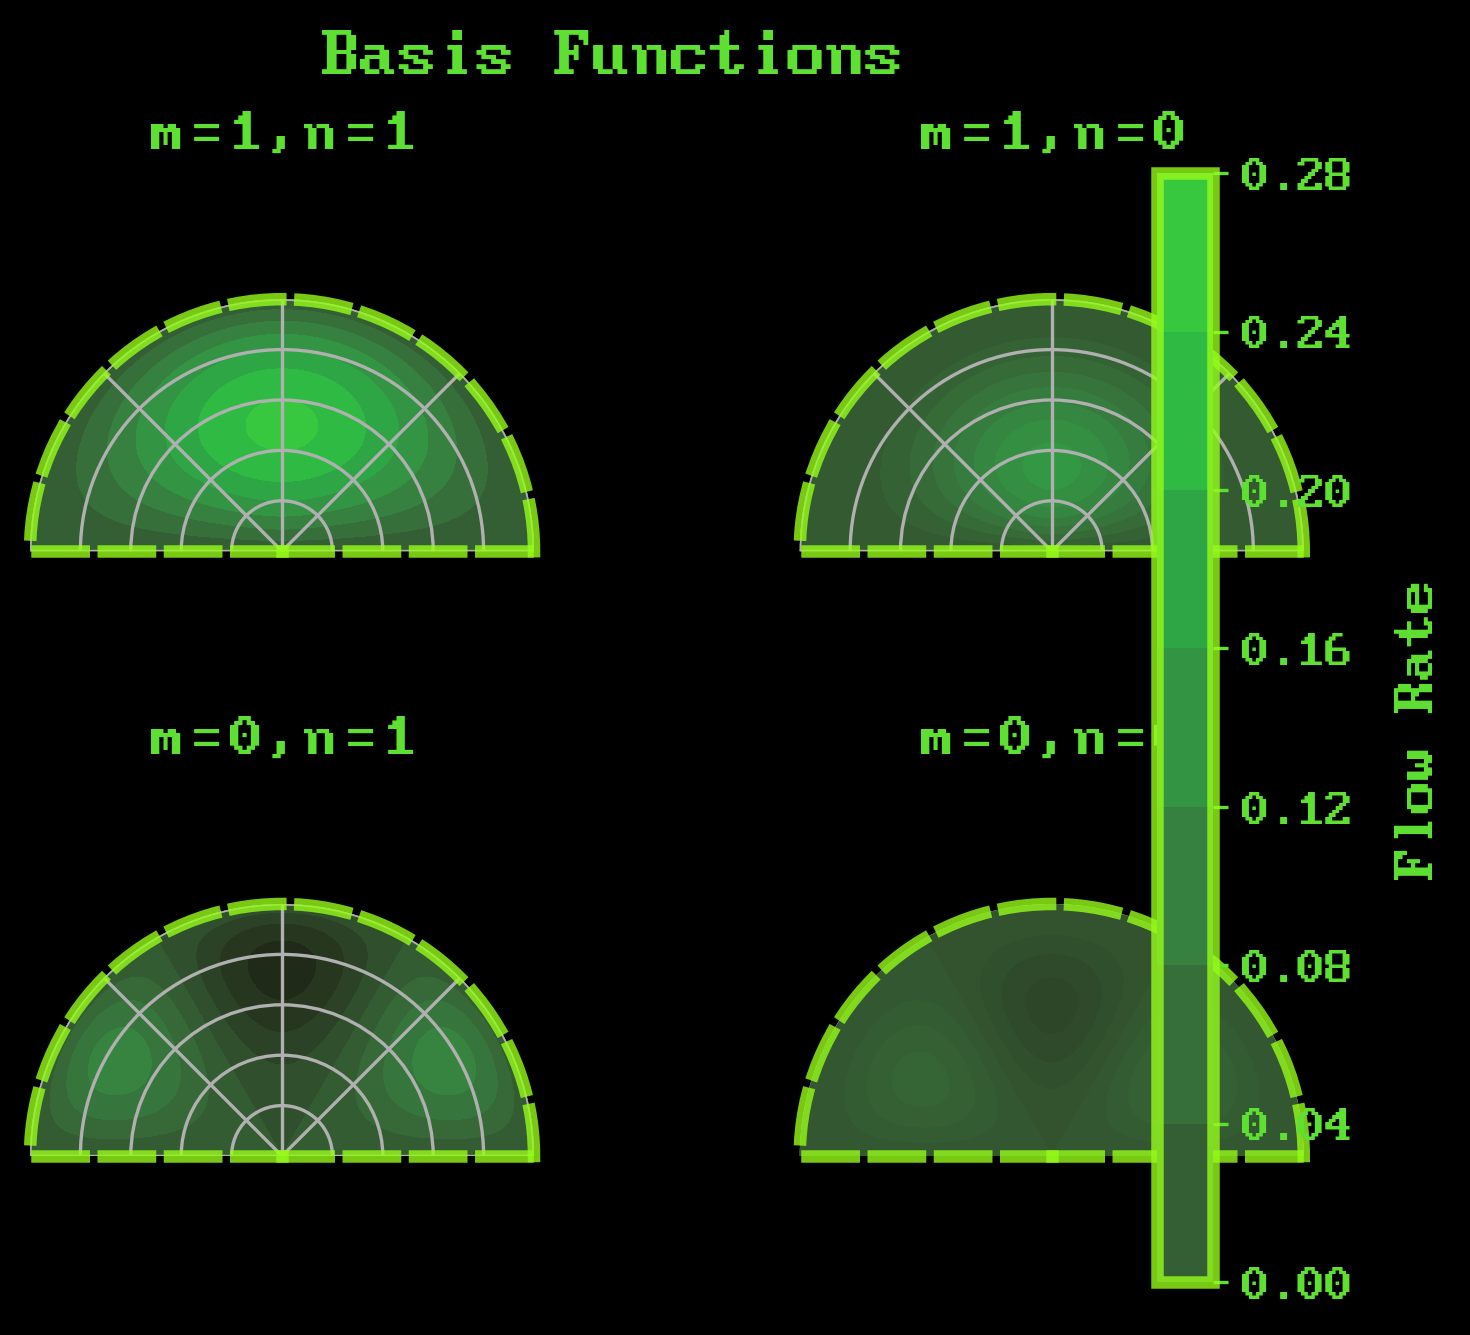
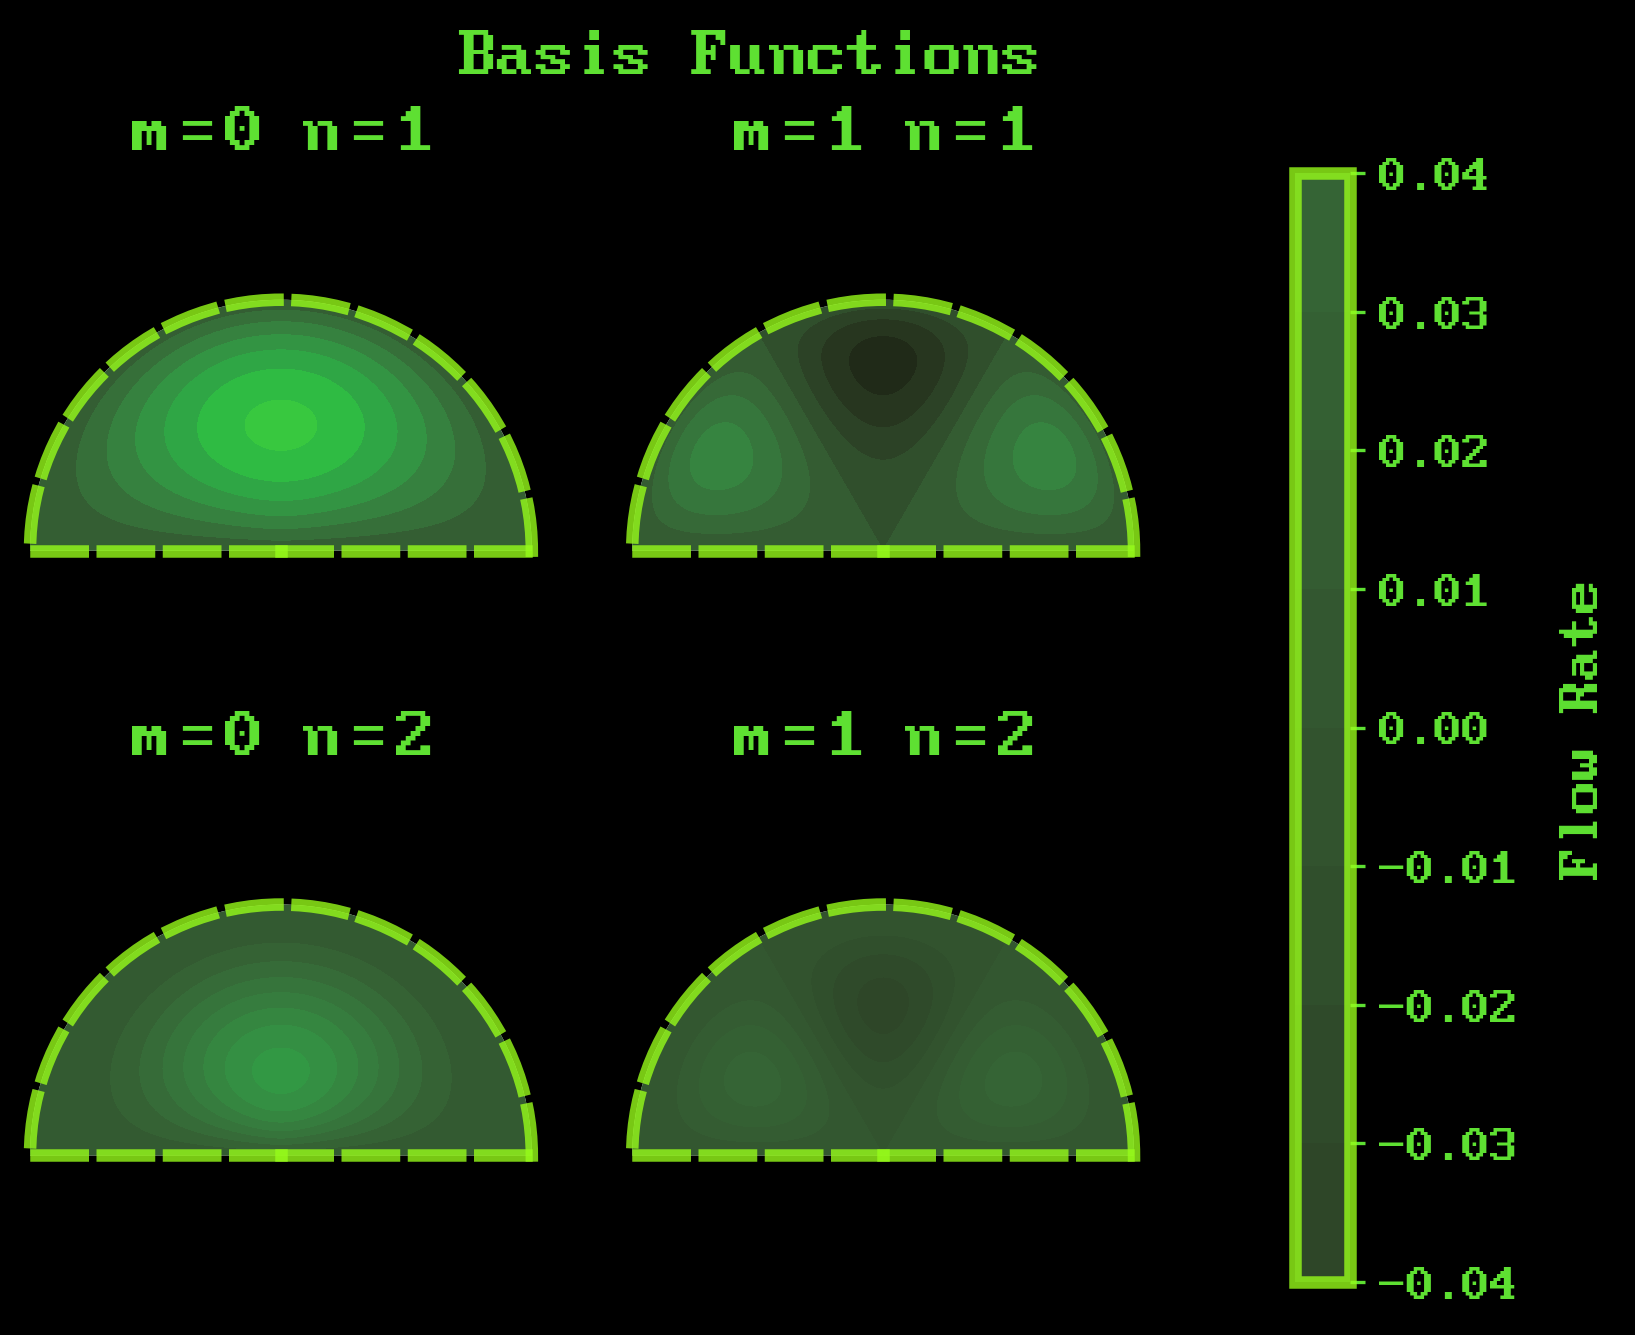
feat: :art: upload basis function images

diff --git a/src.py b/src.py
@@ -177,7 +177,7 @@ class GalerkinObject():
 
         # Spines for cb are called ['left', 'right', 'bottom', 'top', 'outline']
         # Got by calling cb.ax.spines.keys() and iterating over them
-        cb.set_label(r"Flow Rate", color="#5EE032", labelpad=10, size=12)
+        cb.set_label(r"Flow Rate $[\mathrm{arb. units}]$", color="#5EE032", labelpad=10, size=12)
         cb.ax.xaxis.set_tick_params(color="#5EE032")
         cb.ax.yaxis.set_tick_params(color="#5EE032")
         cb.ax.tick_params(axis="x", colors="#5EE032")
@@ -225,23 +225,38 @@ class GalerkinObject():
                 for n in range(1, self.N_dim + 1):
                     Z[m, n - 1] = self.basis_function(self.X, self.PHI, m, n)
         
+        norm = plt.Normalize(vmin=np.min(Z), vmax=np.max(Z))
 
 
         fig, axes = plt.subplots(self.M_dim, self.N_dim, subplot_kw=dict(projection='polar'), facecolor="#000000")
-        
+        cnt = axes[0, 0].contourf(self.PHI, self.X, self.basis_function(self.X, self.PHI, 0, 1), cmap=self.cmap, norm=norm)
+        cnt = axes[0, 1].contourf(self.PHI, self.X, self.basis_function(self.X, self.PHI, 1, 1), cmap=self.cmap, norm=norm)
+        #cnt = axes[0, 2].contourf(self.PHI, self.X, self.basis_function(self.X, self.PHI, 2, 1), cmap=self.cmap, norm=norm)
+        cnt = axes[1, 0].contourf(self.PHI, self.X, self.basis_function(self.X, self.PHI, 0, 2), cmap=self.cmap, norm=norm)
+        cnt = axes[1, 1].contourf(self.PHI, self.X, self.basis_function(self.X, self.PHI, 1, 2), cmap=self.cmap, norm=norm)
+        #cnt = axes[1, 2].contourf(self.PHI, self.X, self.basis_function(self.X, self.PHI, 2, 2), cmap=self.cmap, norm=norm)
+        #cnt = axes[2, 0].contourf(self.PHI, self.X, self.basis_function(self.X, self.PHI, 0, 3), cmap=self.cmap, norm=norm)
+        #cnt = axes[2, 1].contourf(self.PHI, self.X, self.basis_function(self.X, self.PHI, 2, 3), cmap=self.cmap, norm=norm)
+        #cnt = axes[2, 2].contourf(self.PHI, self.X, self.basis_function(self.X, self.PHI, 3, 3), cmap=self.cmap, norm=norm)
+        axes[0, 0].set_title("$m=0$ $n=1$", color="#5EE032", size=14)
+        axes[0, 1].set_title("$m=1$ $n=1$", color="#5EE032", size=14)
+        #axes[0, 2].set_title("$m=2$ $n=1$", color="#5EE032", size=14)
+        axes[1, 0].set_title("$m=0$ $n=2$", color="#5EE032", size=14)
+        axes[1, 1].set_title("$m=1$ $n=2$", color="#5EE032", size=14)
+        #axes[1, 2].set_title("$m=2$ $n=2$", color="#5EE032", size=14)
+        #axes[2, 0].set_title("$m=0$ $n=3$", color="#5EE032", size=14)
+        #axes[2, 1].set_title("$m=1$ $n=3$", color="#5EE032", size=14)
+        #axes[2, 2].set_title("$m=2$ $n=3$", color="#5EE032", size=14)
         # Set colormap norm
 
-        norm = plt.Normalize(vmin=np.min(Z), vmax=np.max(Z))
-
+       
         # Plot the contourf with the colormap
         for m in range(axes.shape[0]):
-             for n in range(axes.shape[1]):
-                ax = axes[m-1, n-1]
+             for n in range(1, axes.shape[1] + 1):
+                ax = axes[m-1, n-2]  # -1 because of indexing -1 because of no n=0
                 ax.set_xticklabels([])
                 ax.set_yticklabels([])
                 ax.set_thetalim(0, np.pi)
-
-                cnt = ax.contourf(self.PHI, self.X, Z[m-1, n-1], cmap=self.cmap, norm=norm)
                 
 
                 # Spines are called ['polar', 'start', 'end', 'inner']
@@ -264,12 +279,12 @@ class GalerkinObject():
                 ax.spines['start'].set_linewidth(3)
                 ax.spines['start'].set_alpha(0.8)
                 ax.spines['start'].set_linestyle("--")
-                ax.set_title(f"$m={m}, n={n}$", color="#5EE032", size=12)
+                ax.grid(False)
 
         # Spines for cb are called ['left', 'right', 'bottom', 'top', 'outline']
         # Got by calling cb.ax.spines.keys() and iterating over them
         cb = plt.colorbar(ax=axes, mappable=cnt)
-        cb.set_label(r"Flow Rate", color="#5EE032", labelpad=10, size=12)
+        cb.set_label(r"Flow Rate $[\mathrm{arb. units}]$", color="#5EE032", labelpad=10, size=12)
         cb.ax.xaxis.set_tick_params(color="#5EE032")
         cb.ax.yaxis.set_tick_params(color="#5EE032")
         cb.ax.tick_params(axis="x", colors="#5EE032")
@@ -304,8 +319,9 @@ def scale_it(N_range, M_range):
     return solutions
 
 GO = GalerkinObject(2, 2)
-GO.plot_gallery(None, title="Basis Functions", save=True, filename="basis_functions.png")
-
+m = 0
+n = 3
+GO.plot_flow(None, m=m, n=n, title=f"Basis Function $m={m}$, $n={n}$" )
 quit()
 # print(scale_it(5, 5))
 GO = GalerkinObject(20, 20)
